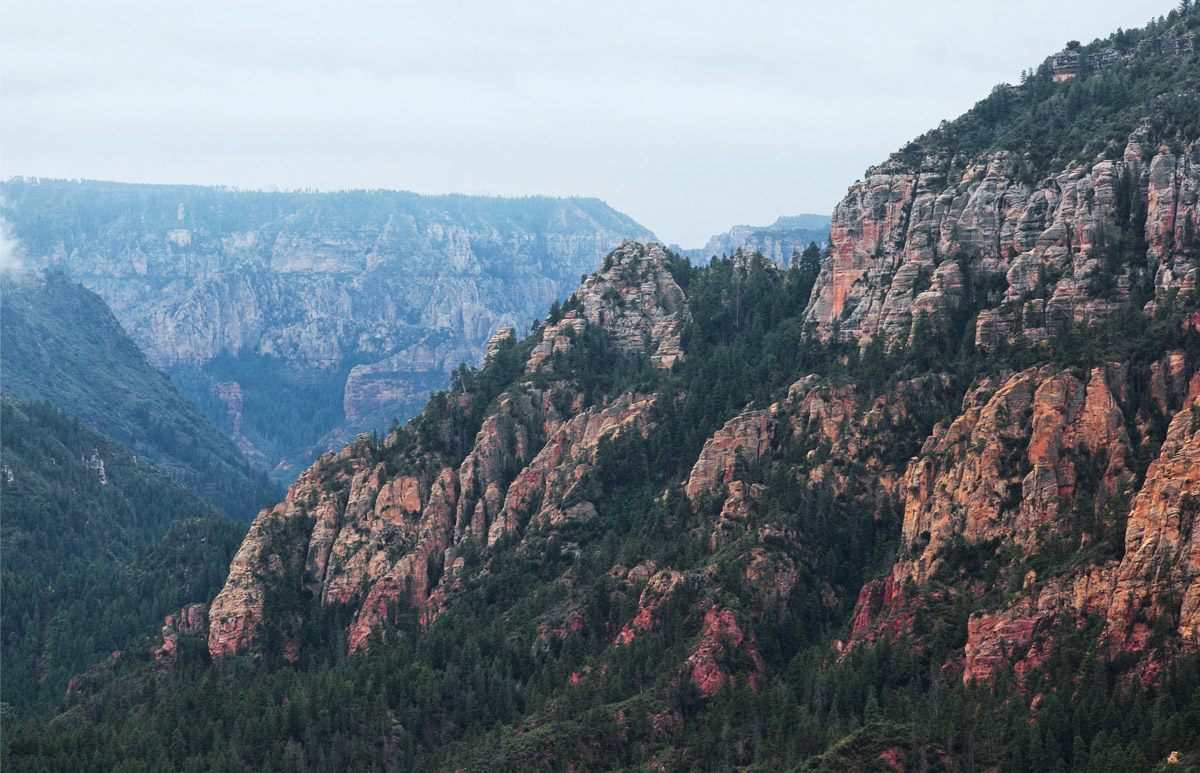
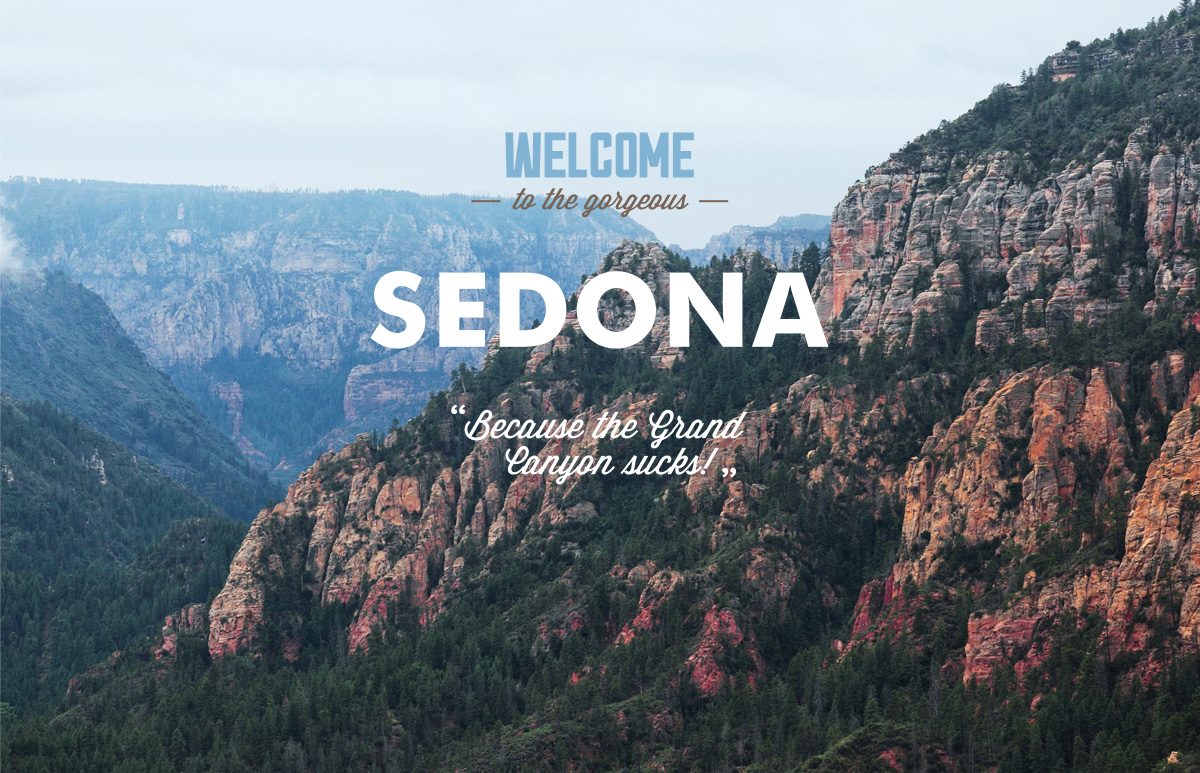
Удалил повторяющийся иконки (календарь) удалил простые элементы (треугольники),  надпись на промо и фоновую картинку свел вместе одной картинкой (свг надпись удалил)

Changed region(s): [[0.3083, 0.3415, 0.7092, 0.4657], [0.4008, 0.1552, 0.5858, 0.2794], [0.37, 0.5278, 0.6167, 0.621]]

diff --git a/index.html b/index.html
@@ -24,8 +24,6 @@
     <h1 class="visually-hidden">Sedona</h1>
     <section class="promo">
       <img src="img/promo.jpg" alt="Промо логотип Седона" class="logo-promo" width="1200" height="800">
-      <!--Окзывается текст на фото - SVG, возможно поставлю потом или надо сейчас?-->
-
       <p>Седона - небольшой городок в Аризоне,<br> заслуживающий большего!</p>
       <p>Рассмотрим 5 причин, по которым Седона круче, чем Гранд Каньон! </p>
     </section>
@@ -92,7 +90,6 @@
             <p>Ехать в Седону из Лас-Вегаса совсем не скучно!</p>
           </section>
         </li>
-
         <li>
           <section class="feature-5">
             <h3>Мало туристов</h3>
